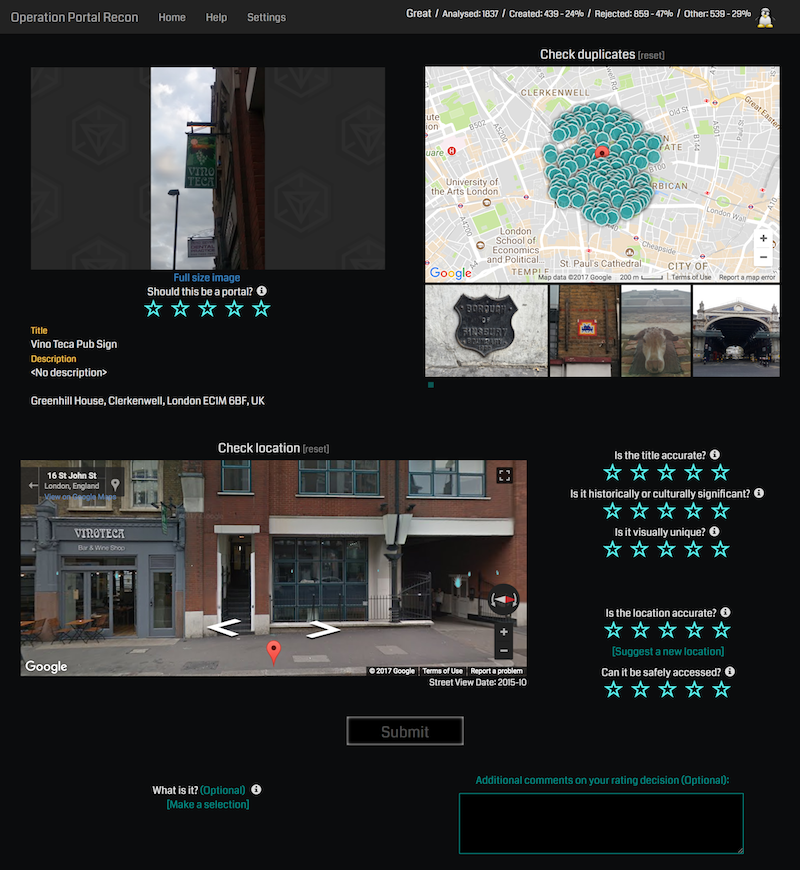
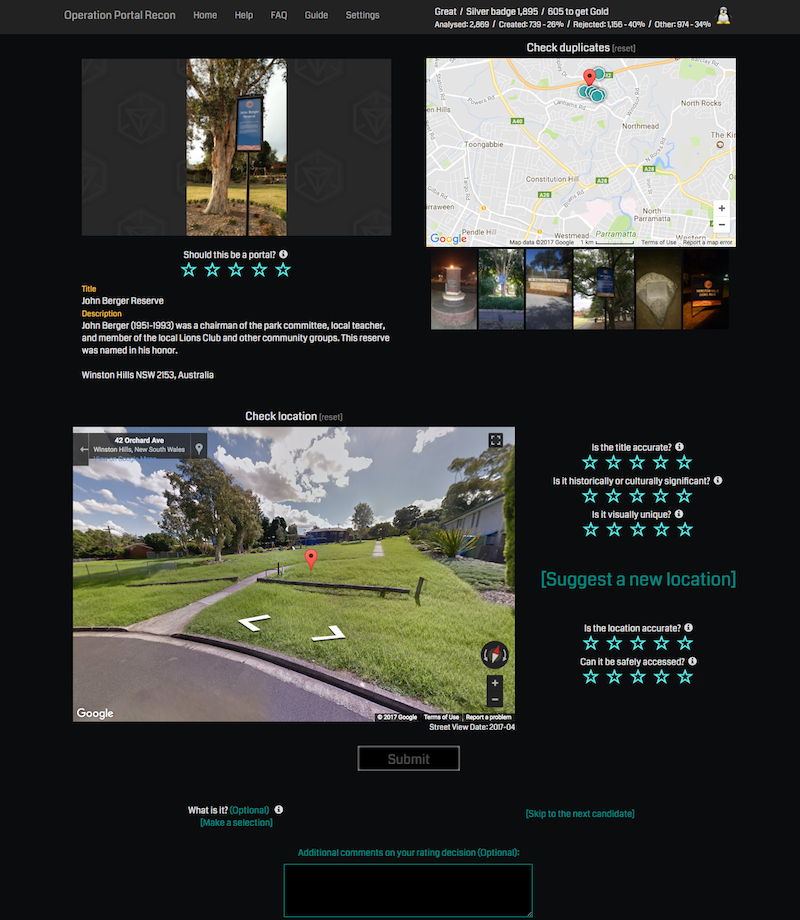
Various changes: * Remove code to disable automatic scrolling as this is now built in under settings * Remove full size image link codes. Now built in also. * Fixed layout tweaks so they work again * Updated README and changes * Made Street View taller * Tweaked ratings side bar * Screenshot updated

diff --git a/cake-opr.user.js b/cake-opr.user.js
@@ -21,21 +21,11 @@
     var divTitleAndDesc = $(rowOriginalOne).children('#descriptionDiv');
     var divRatings = $(rowOriginalOne).children('div:eq(2)');
 
-    var divCheckLocation = $(rowOriginalTwo).children('div:eq(0)');
-    var divDuplicates = $(rowOriginalTwo).children('div:eq(1)');
+    var divDuplicates = $(rowOriginalTwo).children('div:eq(0)');
+    var divCheckLocation = $(rowOriginalTwo).children('div:eq(2)');
 
-    disableAutomaticScrolling();
     moveSectionsAbout();
-    addFullSizeImageLinks();
     displayStatsAllTheTime();
-
-    function disableAutomaticScrolling() {
-        $( document ).ready( function() {
-            // Disable scrolling when clicking ratings
-            var w = typeof unsafeWindow == "undefined" ? window : unsafeWindow;
-            w.angular.element($(divTitleAndDesc)).scope().answerCtrl.goToLocation = null;
-        });
-    }
 
     function moveSectionsAbout() {
         $(rowOriginalTwo).insertBefore($(rowOriginalOne));
@@ -72,6 +62,7 @@
 
         $(divDuplicates)
             .removeClass('col-sm-6')
+            .removeClass('col-sm-push-6')
             .addClass('col-sm-12');
 
         $(divRatings)
@@ -79,16 +70,26 @@
 
         $(divCheckLocation)
             .removeClass('col-sm-6')
+            .removeClass('col-sm-pull-6')
             .addClass('col-sm-8');
 
         $(divRatings)
-            .append('<br><br><br><br>')
-            .append($(divCheckLocation).children('div:eq(1)')) // Is it accurant text
+            .prepend('<br><br>')
+            .append('<br><br>')
+            .append($(divCheckLocation).children('div:eq(1)')) // Is it accurate text
             .append($(divCheckLocation).children("div[class='btn-group']:eq(0)")) // Is it accurate buttons
             .append($(divCheckLocation).children("div[ng-show='!subCtrl.draggableMarker']")) // Suggest disabled text
             .append($(divCheckLocation).children("div[ng-show='subCtrl.draggableMarker']")) // Suggest enabled text
             .append($(divCheckLocation).children("div[id='safetyDiv']")) // Safe access text
             .append($(divCheckLocation).children("div[class='btn-group']:eq(0)")); // Safe access buttons
+
+        $(divRatings) // Move 'Suggest a new location'
+            .children('div:eq(3)')
+            .insertBefore(
+                $(divRatings).children('div:eq(1)')
+            )
+            .append('<br><br>')
+            .children('p').css('font-size', '30px');
 
         $(container).children('div:last') // Comments
             .addClass('col-sm-6')
@@ -102,45 +103,8 @@
         $("div[id='submitDiv'")
             .insertBefore($(rowFour));
 
-    }
-
-    function addFullSizeImageLinks()  {
-        // Main portal for review image has loaded
-        $('div[class="ingress-background"] > img:eq(0)').on('load', function () {
-            $('<a>')
-                .insertAfter($(divPicAndShouldIt).children('div[class="ingress-background"]'))
-                .attr('href', $('div[class="ingress-background"] > img:eq(0)').attr('src') + '=s0')
-                .attr('target', '_blank')
-                .text('Full size image')
-                .css('font-weight', 'bold');
-        });
-
-        // When the map is clicked, if info bubble appears
-        $('div#map').on('click', thumbnailBigLink);
-
-        // When a thumbnail in the scrolling list is clicked
-        $('div#map-filmstrip > ul').on('click', thumbnailBigLink);
-
-        // Check if needed and make link to full size image if so
-        function thumbnailBigLink() {
-            if (
-                $('div#content').is(':visible') && // Info bubble
-                !$('#thumbnailBigLink').is(':visible') // No link already
-            ) {
-                $('<a>')
-                    .insertAfter('div#content > img')
-                    .attr('href', $('div#content img').attr('src') + '=s0')
-                    .attr('target', '_blank')
-                    .attr('id', 'thumbnailBigLink')
-                    .text('Full size image')
-                    .css('font-weight', 'bold')
-                    .css('padding-top', '10px')
-                    .css('padding-bottom', '10px');
-
-                $('<br>')
-                    .insertAfter('div#content > img');
-            }
-        }
+        $("div[id='street-view")
+            .css('height', '500px');
     }
 
     function displayStatsAllTheTime() {
@@ -199,7 +163,7 @@
             .css('float', 'left')
             .html(statLevel+'  /  <span title="'+badgeAltText+'">'+badgeNameText+ ' badge '+
                 totalForBadge.toLocaleString()+
-                '  <small>/  '+badgeToGo.toLocaleString()+' to get '+badgeNextNameText+'</small></span><br>'+
+                '  /  '+badgeToGo.toLocaleString()+' to get '+badgeNextNameText+'</span><br>'+
                 '<small>Analysed: '+(statAnalysed.toLocaleString()||'?')+
                 '</small>  /  <small>Created: '+(statCreated.toLocaleString()||'?')+' - '+
                     (statCreatedPercent||'?')+'%'+

diff --git a/README.md b/README.md
@@ -21,8 +21,8 @@ See change history [here](changes.md)
   * Wider Google streetview/maps view
   * What is it selector and comments side by side at the bottom
 * Show user stats in top bar all the time
-* Disable auto scroll when clicking on ratings
-* Add links to full size images on main portal image and duplicates
+* ~~Disable auto scroll when clicking on ratings~~ now native
+* ~~Add links to full size images on main portal image and duplicates~~ now native
 
 ## Usage
 

diff --git a/changes.md b/changes.md
@@ -1,3 +1,8 @@
+## v0.1.3
+* Fixed layout tweaks since OPR source changes
+* Removed links to fille size images as now supported natively
+* Removed code to disable automatic scrolling as now supported natively (see 'Settings')
+
 ## v0.1.2
 * Added badge stat details to top header
 
